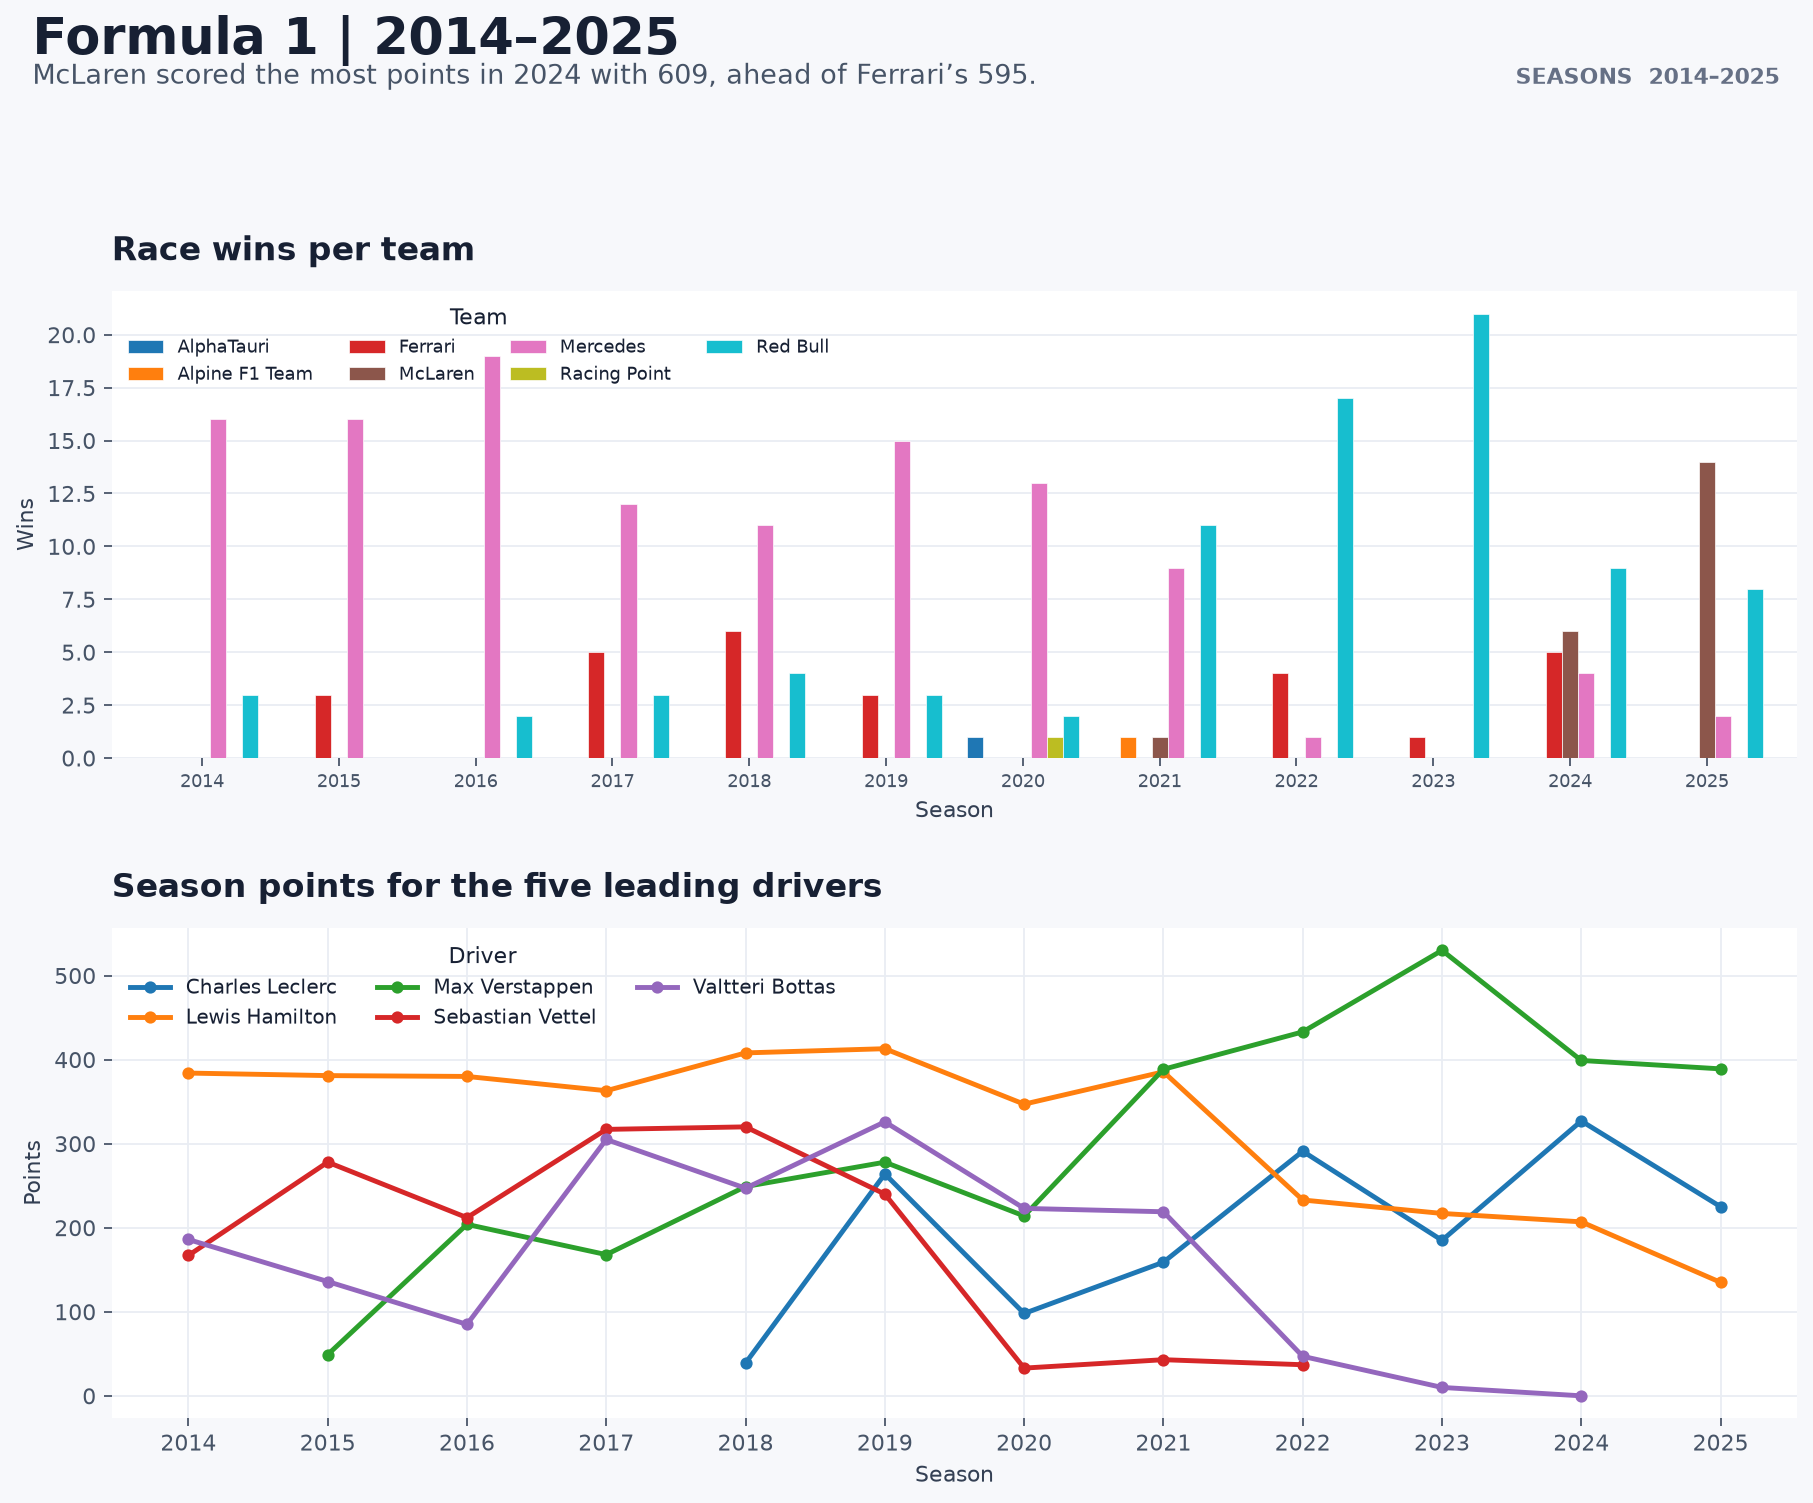
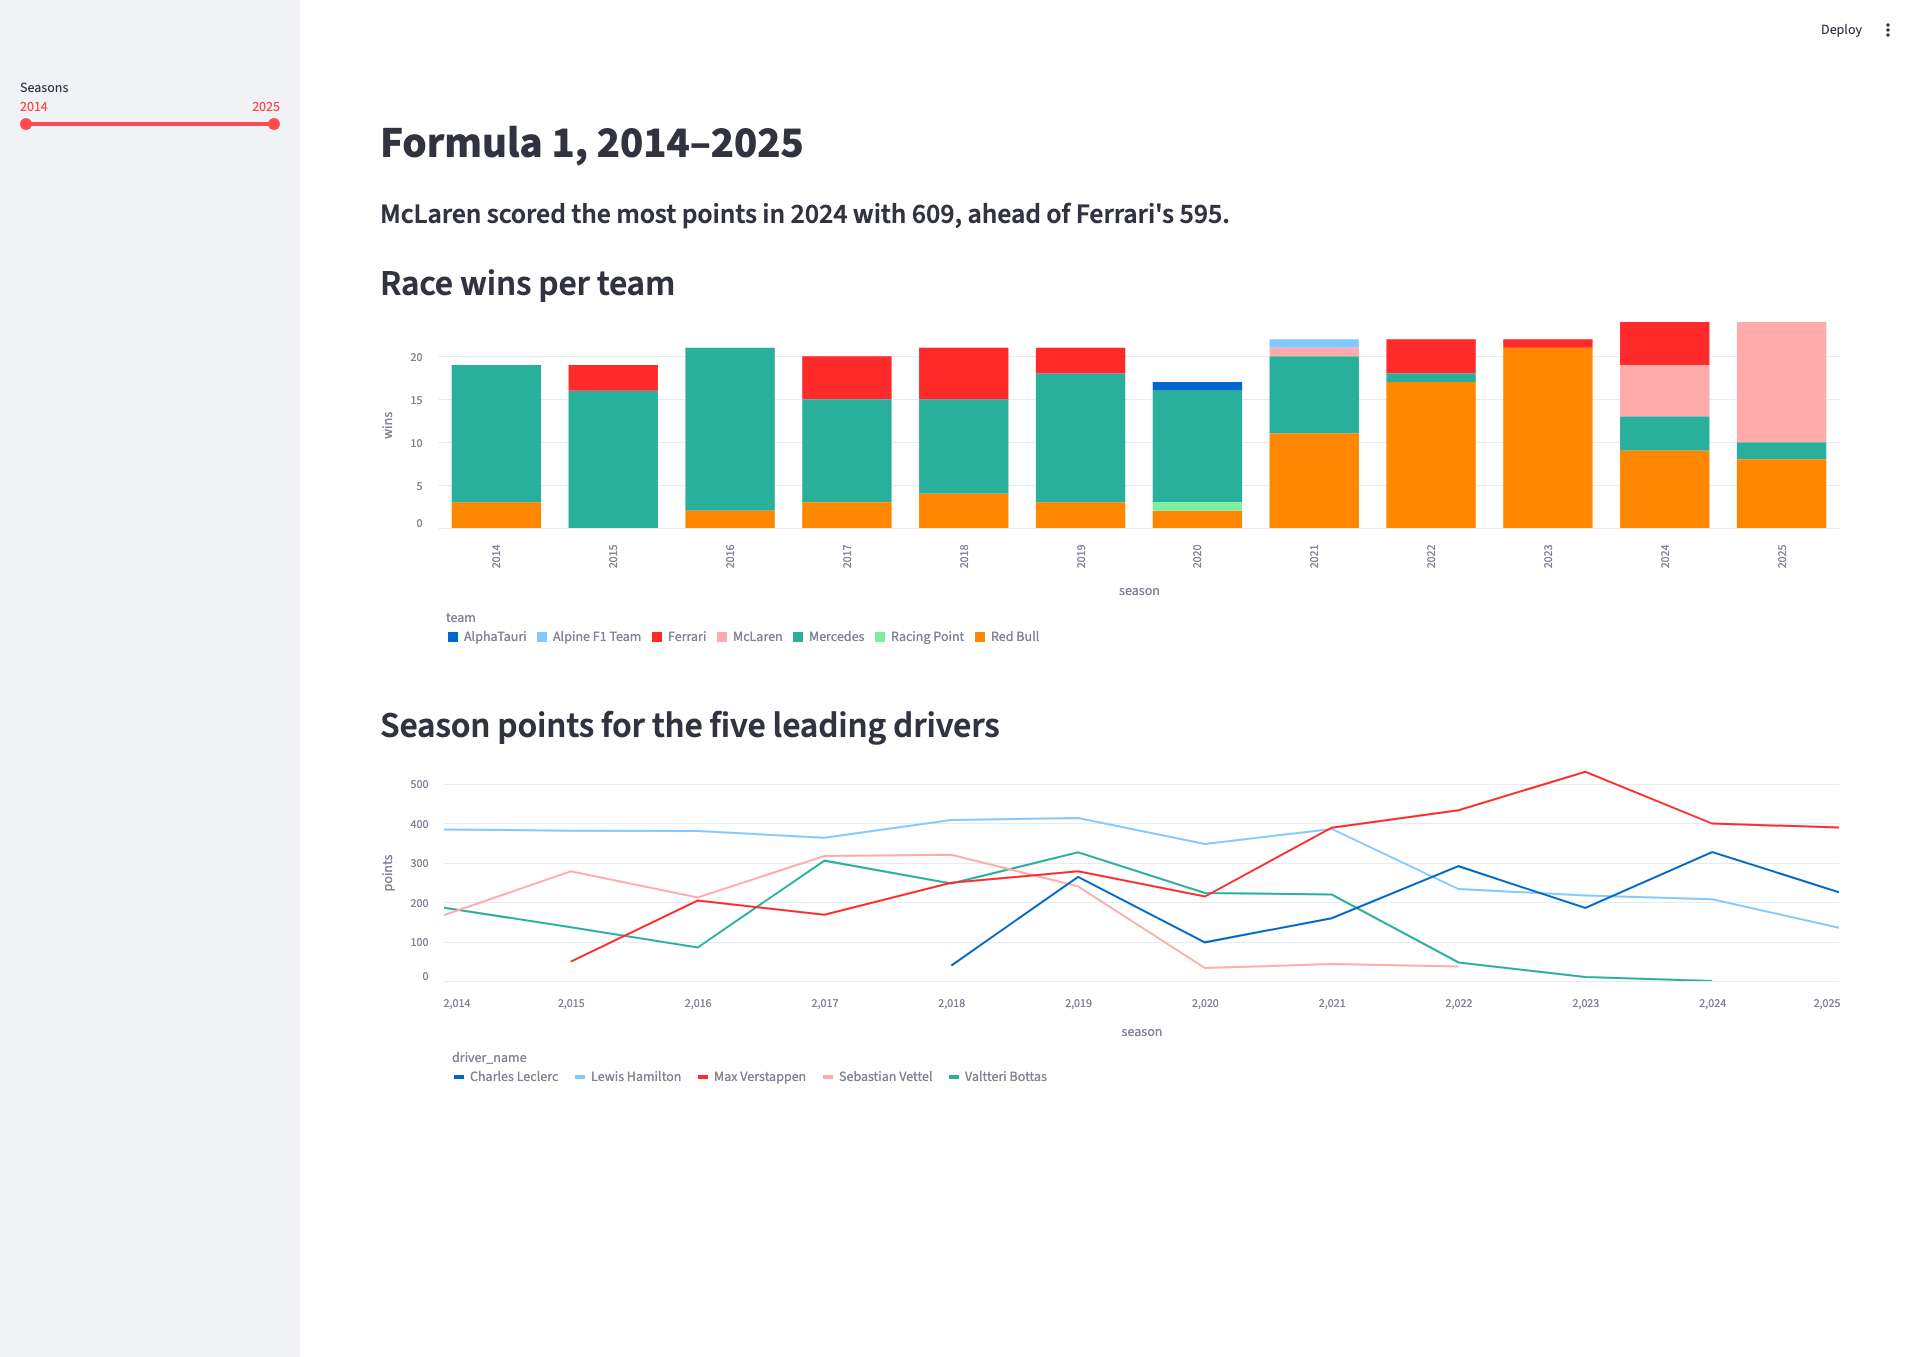
Homework 2 solution

diff --git a/solution/dashboard.py b/solution/dashboard.py
@@ -28,7 +28,11 @@ def query(sql: str, params: list | None = None) -> pd.DataFrame:
         return con.execute(sql, params or []).df()
 
 
-st.set_page_config(page_title="F1 2014–2025", layout="wide")
+st.set_page_config(
+    page_title="F1 2014–2025",
+    layout="wide",
+    initial_sidebar_state="expanded",
+)
 st.title("Formula 1, 2014–2025")
 
 st.subheader("McLaren scored the most points in 2024 with 609, ahead of Ferrari's 595.")
@@ -55,6 +59,7 @@ st.bar_chart(wins, x="season", y="wins", color="team")
 
 
 # --- Your chart ----------------------------------------------------------------
+# Who scored the most across the slider's seasons, and how did each season go?
 st.header("Season points for the five leading drivers")
 driver_points = query(
     """

diff --git a/solution/answers.md b/solution/answers.md
@@ -45,7 +45,7 @@
 | Circuit Park Zandvoort | Netherlands | 5 | 0.580 |
 
 Monaco:
-The result does not show almost no position gains: Monaco averages 1.125 places gained, around the middle of this list. However, grid-to-finish position change is only a proxy for overtaking; retirements and other changes in the classified order can affect it too.
+No. Monaco averages 1.125 places gained, 13th of 22 circuits (tied with Bahrain), so it is mid-table rather than near zero. Grid-to-finish change is only a proxy for overtaking: classified drivers also gain places when cars ahead retire or when pit-stop strategy reshuffles the order, so some of those gains happen without an on-track pass.
 
 ### Question 3
 
@@ -63,6 +63,18 @@ The result does not show almost no position gains: Monaco averages 1.125 places 
 | Sauber | 4 | 87 |
 
 (a) What went wrong: The results table's grain is one row per driver per race, but joining it to pit stops changes the joined grain to one row per pit stop. That repeats each result's points once for every stop, inflating the summed points; Red Bull did not actually score 966 points.
+
+(b) Corrected query against the star:
+
+```sql
+SELECT t.team_name AS team, sum(f.points) AS points, sum(f.pit_stops) AS pit_stops
+FROM fact_result f
+JOIN dim_team t USING (team_key)
+JOIN dim_race r USING (race_key)
+WHERE r.season = 2024
+GROUP BY t.team_key, t.team_name
+ORDER BY points DESC;
+```
 
 ## Part 4
 
